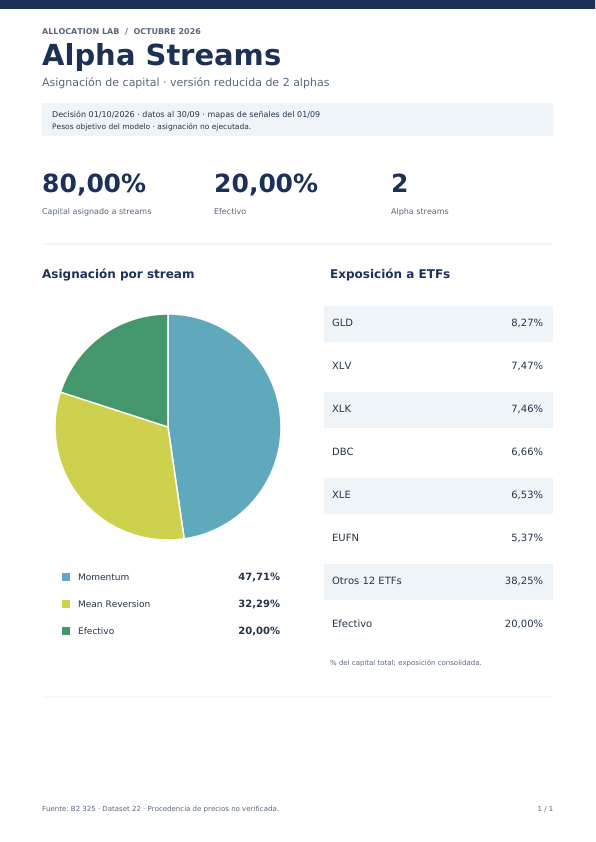
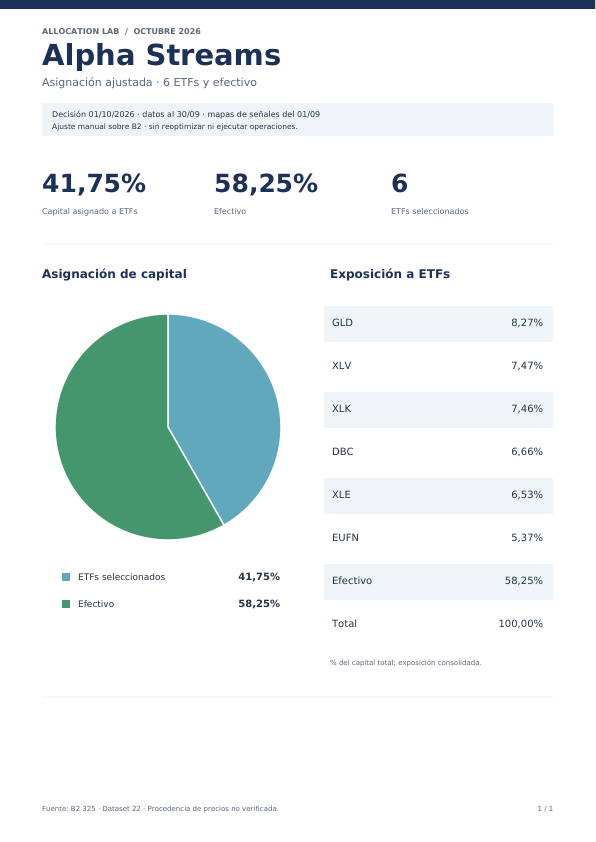
Update Alpha Streams October 2026 backtest report and data
Replit-Commit-Author: Agent

diff --git a/reports/oct2026-backtests/alpha_onepage.py b/reports/oct2026-backtests/alpha_onepage.py
@@ -1,4 +1,4 @@
-"""One-page Alpha Streams allocation and model attribution from frozen B2."""
+"""One-page manual allocation adjustment, preserving the original frozen B2."""
 import json
 import math
 from pathlib import Path
@@ -35,6 +35,22 @@ audit = {
     "dailyContributionStandardErrors": se, "varianceContributions": variance_parts,
     "varianceShares": risk_share, "informationCutoff": m["informationCutoff"],
     "mappingSignalDate": "2026-09-01",
+}
+holdings = sorted([(k, v) for k, v in r["assetWeights"].items() if v > 1e-10],
+                  key=lambda x: x[1], reverse=True)
+top = holdings[:6]
+moved_to_cash = sum(value for _, value in holdings[6:])
+cash = r["totalCash"] + moved_to_cash
+invested = sum(value for _, value in top)
+assert math.isclose(invested + cash, 1, abs_tol=1e-8)
+audit["manualAdjustment"] = {
+    "type": "move_other_etfs_to_cash",
+    "assetWeights": dict(top),
+    "cash": cash,
+    "movedToCash": moved_to_cash,
+    "removedAssetWeights": dict(holdings[6:]),
+    "reoptimized": False,
+    "executed": False,
 }
 (ROOT / "alpha-onepage-data.json").write_text(json.dumps(audit, indent=2))
 
@@ -75,42 +91,40 @@ def percent(v):
 rect(0, 0, W, 9, NAVY)
 text(42, 34, "ALLOCATION LAB  /  OCTUBRE 2026", 8, MUTED, True)
 text(42, 65, "Alpha Streams", 29, NAVY, True)
-text(42, 86, "Asignación de capital · versión reducida de 2 alphas", 11, MUTED)
+text(42, 86, "Asignación ajustada · 6 ETFs y efectivo", 11, MUTED)
 rect(42, 103, W-84, 33, "#F0F4F8")
 text(52, 117, "Decisión 01/10/2026 · datos al 30/09 · mapas de señales del 01/09", 8)
-text(52, 129, "Pesos objetivo del modelo · asignación no ejecutada.", 7.5)
+text(52, 129, "Ajuste manual sobre B2 · sin reoptimizar ni ejecutar operaciones.", 7.5)
 
 for x, value, caption in [
-    (42, percent(sum(w)), "Capital asignado a streams"),
+    (42, percent(invested), "Capital asignado a ETFs"),
     (214, percent(cash), "Efectivo"),
-    (391, str(len(w)), "Alpha streams"),
+    (391, str(len(top)), "ETFs seleccionados"),
 ]:
     text(x, 192, value, 25, NAVY, True)
     text(x, 214, caption, 8, MUTED)
 line(42, 244, W-42, 244)
 
-text(42, 278, "Asignación por stream", 12, NAVY, True)
+text(42, 278, "Asignación de capital", 12, NAVY, True)
 text(330, 278, "Exposición a ETFs", 12, NAVY, True)
 cx, cy, radius = 168, H-427, 113
 start = 90
-for value, color in zip(w+[cash], PALETTE):
+for value, color in zip([invested, cash], [PALETTE[0], PALETTE[2]]):
     c.setFillColor(colors.HexColor(color))
     c.setStrokeColor(colors.white)
     c.setLineWidth(1.5)
     c.wedge(cx-radius, cy-radius, cx+radius, cy+radius,
             startAng=start, extent=-360*value, fill=1, stroke=1)
     start -= 360*value
-for i, (label, value, color) in enumerate(zip(labels+["Efectivo"], w+[cash], PALETTE)):
+for i, (label, value, color) in enumerate(zip(
+    ["ETFs seleccionados", "Efectivo"], [invested, cash], [PALETTE[0], PALETTE[2]]
+)):
     y = 580+i*27
     rect(62, y-7, 8, 8, color)
     text(78, y, label, 9)
     text(280, y, percent(value), 10, INK, True, right=True)
 
-holdings = sorted([(k, v) for k, v in r["assetWeights"].items() if v > 1e-10],
-                  key=lambda x: x[1], reverse=True)
-top = holdings[:6]
-table = top + [(f"Otros {len(holdings)-6} ETFs", sum(v for _, v in holdings[6:])),
-               ("Efectivo", cash)]
+table = top + [("Efectivo", cash), ("Total", invested+cash)]
 for i, (ticker, value) in enumerate(table):
     y = 325 + i*43
     if i % 2 == 0:
